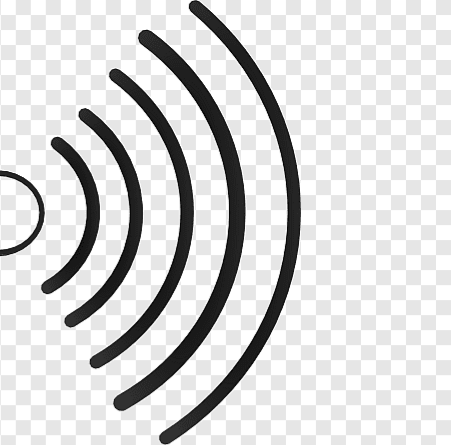
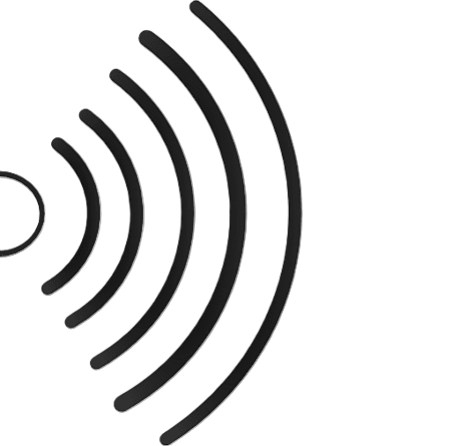
ataque del boss
se modifico el ataque para que tire ondas de sonido o ecos
arte deberia darle su toque
tiene efecto con DOTween

diff --git a/Assets/Enemies/Cacha/BossEcoState.cs b/Assets/Enemies/Cacha/BossEcoState.cs
@@ -1,136 +1,42 @@
-// using UnityEngine;
-// using System.Collections;
-
-// public class BossBombState : State_Base
-// {
-//     [Header("Bomb Settings")]
-//     public GameObject bombPrefab;
-//     public int bombCount = 4;
-//     public float throwInterval = 0.3f;
-//     public float throwForce = 10f;
-
-//     private Transform _playerTransform;
-
-//     public override void EnterState()
-//     {
-//         Debug.Log("INICIANDO RÁFAGA DE DISPAROS");
-        
-//         // 1. Localizar al jugador para saber hacia dónde disparar
-//         GameObject player = GameObject.FindGameObjectWithTag("Ship");
-//         if (player != null)
-//         {
-//             _playerTransform = player.transform;
-//         }
-
-
-//         StartCoroutine(ThrowBombs());
-//     }
-
-//     IEnumerator ThrowBombs()
-//     {
-//         for (int i = 0; i < bombCount; i++)
-//         {
-//             // Instanciar la bomba
-//             GameObject bomb = Instantiate(bombPrefab, controlledObject.transform.position, Quaternion.identity);
-
-//             // 3. CALCULAR DIRECCIÓN
-//             float directionX = 1f; // Por defecto a la derecha
-//             if (_playerTransform != null)
-//             {
-//                 // Si la X del jefe es mayor que la del jugador, el jefe está a la derecha, debe disparar a la izquierda (-1)
-//                 directionX = (controlledObject.transform.position.x > _playerTransform.position.x) ? -1f : 1f;
-//             }
-
-//             // Aplicar fuerza
-//             Rigidbody2D rb = bomb.GetComponent<Rigidbody2D>();
-//             if (rb != null)
-//             {
-//                 // Multiplicamos la fuerza por la dirección (1 o -1)
-//                 Vector2 force = new Vector2(throwForce * directionX, Random.Range(-2f, 5f));
-//                 rb.AddForce(force, ForceMode2D.Impulse);
-//             }
-
-//             yield return new WaitForSeconds(throwInterval);
-//         }
-
-//         // Regresar al estado de persecución
-//         state_machine.SetState<BossPursueState>();
-//     }
-
-//     public override void ExitState(string nextStateName)
-//     {
-//         // Resetear rotación al salir para que no se quede girado en el PursueState
-//         controlledObject.transform.rotation = Quaternion.identity;
-//     }
-// }
-
-
 using UnityEngine;
-using DG.Tweening;
+using System.Collections;
 
-public class EcoSonicoProyectil : MonoBehaviour
+public class BossEcoState : State_Base 
 {
-    [Header("Configuración de Movimiento")]
-    public float velocidad = 6f;
-    public float duracionVida = 2.5f;
-    public Vector3 escalaFinal = new Vector3(3f, 2f, 1f);
+    [Header("Eco Settings")]
+    public GameObject ecoPrefab;
+    public int ecoCount = 3;
+    public float throwInterval = 0.5f;
 
-    [Header("Configuración de Daño")]
-    public int dañoMaximo = 4;
-    public float distanciaParaDañoMinimo = 12f;
-    
-    private Vector3 _posicionOrigen;
-    private float _direccionX;
+    private Transform _playerTransform;
 
-    public void Inicializar(float direccion, Vector3 origen)
+    public override void EnterState()
     {
-        _direccionX = direccion;
-        _posicionOrigen = origen;
-
-        // Efecto visual: Empieza invisible y pequeño, crece y aparece
-        transform.localScale = new Vector3(0.1f, 0.1f, 1f);
-        transform.DOScale(escalaFinal, duracionVida).SetEase(Ease.OutQuad);
+        Debug.Log("INICIANDO ATAQUE ECO SÓNICO");
         
-        SpriteRenderer spr = GetComponent<SpriteRenderer>();
-        if (spr != null)
-        {
-            spr.DOFade(0, duracionVida).SetDelay(duracionVida * 0.7f).OnComplete(() => Destroy(gameObject));
-        }
-        else
-        {
-            Destroy(gameObject, duracionVida);
-        }
+        GameObject player = GameObject.FindGameObjectWithTag("Ship");
+        if (player != null) _playerTransform = player.transform;
+
+        StartCoroutine(EmitirEcos());
     }
 
-    void Update()
+    IEnumerator EmitirEcos()
     {
-        // Movimiento lineal en la dirección calculada
-        transform.Translate(Vector2.right * _direccionX * velocidad * Time.deltaTime);
-    }
-
-    private void OnTriggerEnter2D(Collider2D other)
-    {
-        if (other.CompareTag("Player") || other.CompareTag("Ship"))
+        for (int i = 0; i < ecoCount; i++)
         {
-            float distanciaRecorrida = Vector3.Distance(_posicionOrigen, transform.position);
+            GameObject ecoGO = Instantiate(ecoPrefab, controlledObject.transform.position, Quaternion.identity);
             
-            // Lógica: Más lejos = Menos daño
-            // Calculamos un factor de 0 a 1 basado en la distancia
-            float factorCercania = 1f - Mathf.Clamp01(distanciaRecorrida / distanciaParaDañoMinimo);
-            
-            // Daño proporcional (mínimo 1)
-            int dañoFinal = Mathf.Max(1, Mathf.RoundToInt(dañoMaximo * factorCercania));
-
-            Ship barco = other.GetComponent<Ship>();
-            if (barco != null)
+            // BUSCAMOS EL SCRIPT DEL PROYECTIL (EcoSonicoProyectil)
+            EcoSonicoProyectil ecoScript = ecoGO.GetComponent<EcoSonicoProyectil>();
+            if (ecoScript != null)
             {
-                barco.takeDamage(dañoFinal);
-                Debug.Log($"Eco impactó a distancia {distanciaRecorrida}. Daño aplicado: {dañoFinal}");
+                float directionX = (controlledObject.transform.position.x > _playerTransform.position.x) ? -1f : 1f;
+                ecoScript.Inicializar(directionX, controlledObject.transform.position);
             }
 
-            // El eco atraviesa al jugador o se destruye? 
-            // Si es un "eco", suele ser mejor que lo atraviese, pero aquí lo destruimos para ser claros:
-            Destroy(gameObject);
+            yield return new WaitForSeconds(throwInterval);
         }
+
+        state_machine.SetState<BossPursueState>();
     }
 }

diff --git a/Assets/Enemies/Cacha/EcoSonicoProyectil.cs b/Assets/Enemies/Cacha/EcoSonicoProyectil.cs
@@ -1,55 +1,80 @@
 using UnityEngine;
-using System.Collections;
+using DG.Tweening;
+using System.Collections.Generic;
 
-public class BossEcoState : State_Base
+public class EcoSonicoProyectil : MonoBehaviour
 {
-    [Header("Eco Settings")]
-    public GameObject ecoPrefab;
-    public int ecoCount = 3;
-    public float intervaloDisparo = 0.5f;
+    [Header("Configuración")]
+    public float velocidad = 6f;
+    public float duracionVida = 2.5f;
+    public Vector3 escalaFinal = new Vector3(4f, 2.5f, 1f);
 
-    private Transform _playerTransform;
+    [Header("Daño")]
+    public int dañoMaximo = 4;
+    public float distanciaParaDañoMinimo = 12f;
+    
+    private Vector3 _posicionOrigen;
+    private float _direccionX;
+    
+    // Lista para registrar quién ya recibió daño de esta onda
+    private List<GameObject> objetosDañados = new List<GameObject>();
 
-    public override void EnterState()
+    public void Inicializar(float direccion, Vector3 origen)
     {
-        Debug.Log("INICIANDO ATAQUE ECO SÓNICO");
+        _direccionX = direccion;
+        _posicionOrigen = origen;
+
+        // Orientación
+        if (_direccionX < 0) transform.rotation = Quaternion.Euler(0, 180, 0);
+        else transform.rotation = Quaternion.identity;
+
+        // --- EFECTO DOTWEEN: Crecimiento y Punch ---
+        transform.localScale = new Vector3(0.1f, 0.1f, 1f);
         
-        // 1. Localizar al jugador (usando tu lógica de Ship)
-        GameObject player = GameObject.FindGameObjectWithTag("Ship");
-        if (player != null)
-        {
-            _playerTransform = player.transform;
-        }
+        // 1. Crecimiento fluido hacia la escala final
+        transform.DOScale(escalaFinal, duracionVida).SetEase(Ease.OutQuad).SetUpdate(true);
+        
+        // 2. Efecto de "vibración" sonora al nacer (opcional, le da fuerza)
+        transform.DOPunchRotation(new Vector3(0, 0, 10), 0.5f, 10, 1).SetUpdate(true);
 
-        StartCoroutine(EmitirEcos());
+        // Desvanecimiento
+        SpriteRenderer spr = GetComponent<SpriteRenderer>();
+        if(spr != null)
+        {
+            // El eco se vuelve más transparente conforme se aleja
+            spr.DOFade(0, duracionVida).SetEase(Ease.InExpo).OnComplete(() => Destroy(gameObject)).SetUpdate(true);
+        }
+        else Destroy(gameObject, duracionVida);
     }
 
-    IEnumerator EmitirEcos()
+    void Update()
     {
-        for (int i = 0; i < ecoCount; i++)
-        {
-            // 2. Instanciar el eco
-            GameObject ecoGO = Instantiate(ecoPrefab, controlledObject.transform.position, Quaternion.identity);
-            EcoSonicoProyectil ecoScript = ecoGO.GetComponent<EcoSonicoProyectil>();
+        transform.Translate(Vector2.right * velocidad * Time.deltaTime);
+    }
 
-            if (ecoScript != null)
+    private void OnTriggerEnter2D(Collider2D other)
+    {
+        // Si es el barco y NO lo hemos dañado todavía
+        if (other.CompareTag("Ship") && !objetosDañados.Contains(other.gameObject))
+        {
+            objetosDañados.Add(other.gameObject); // Lo registramos
+
+            float distancia = Vector3.Distance(_posicionOrigen, transform.position);
+            float factor = 1f - Mathf.Clamp01(distancia / distanciaParaDañoMinimo);
+            int dañoFinal = Mathf.Max(1, Mathf.RoundToInt(dañoMaximo * factor));
+
+            Ship barco = other.GetComponent<Ship>();
+            if (barco != null)
             {
-                // 3. CALCULAR DIRECCIÓN (Igual que en tus bombas)
-                float directionX = (controlledObject.transform.position.x > _playerTransform.position.x) ? -1f : 1f;
+                barco.takeDamage(dañoFinal);
                 
-                // Iniciar el proyectil con su dirección y origen
-                ecoScript.Inicializar(directionX, controlledObject.transform.position);
+                // --- EFECTO DOTWEEN AL IMPACTAR EL BARCO ---
+                // El eco hace un pequeño "flash" o pulso cuando toca al jugador
+                transform.DOPunchScale(Vector3.one * 0.2f, 0.2f).SetUpdate(true);
             }
-
-            yield return new WaitForSeconds(intervaloDisparo);
+            
+            // IMPORTANTE: Ya no llamamos a Destroy(gameObject) aquí
+            // para que el proyectil siga su camino y atraviese el barco.
         }
-
-        // 4. Regresar al estado de persecución (Controlador de la FSM)
-        state_machine.SetState<BossPursueState>();
-    }
-
-    public override void ExitState(string nextStateName)
-    {
-        // Resetear cualquier cambio visual si fuera necesario
     }
 }

diff --git a/Assets/Enemies/Cacha/BossPursueState.cs b/Assets/Enemies/Cacha/BossPursueState.cs
@@ -92,18 +92,18 @@ public class BossPursueState : State_Base
     private void SelectRandomAttack()
     {
         // Definimos probabilidades (puedes mover esto a variables serializadas)
-        float chanceBomb = 35f;
+        float chanceEco = 35f;
         float chanceBite = 30f;
         float chanceJump = 35f;
 
-        float total = chanceBomb + chanceBite + chanceJump;
+        float total = chanceEco + chanceBite + chanceJump;
         float randomPoint = Random.Range(0, total);
 
-        if (randomPoint < chanceBomb)
+        if (randomPoint < chanceEco)
         {
             state_machine.SetState<BossEcoState>();
         }
-        else if (randomPoint < chanceBomb + chanceBite)
+        else if (randomPoint < chanceEco + chanceBite)
         {
             state_machine.SetState<BossBiteState>();
         }
